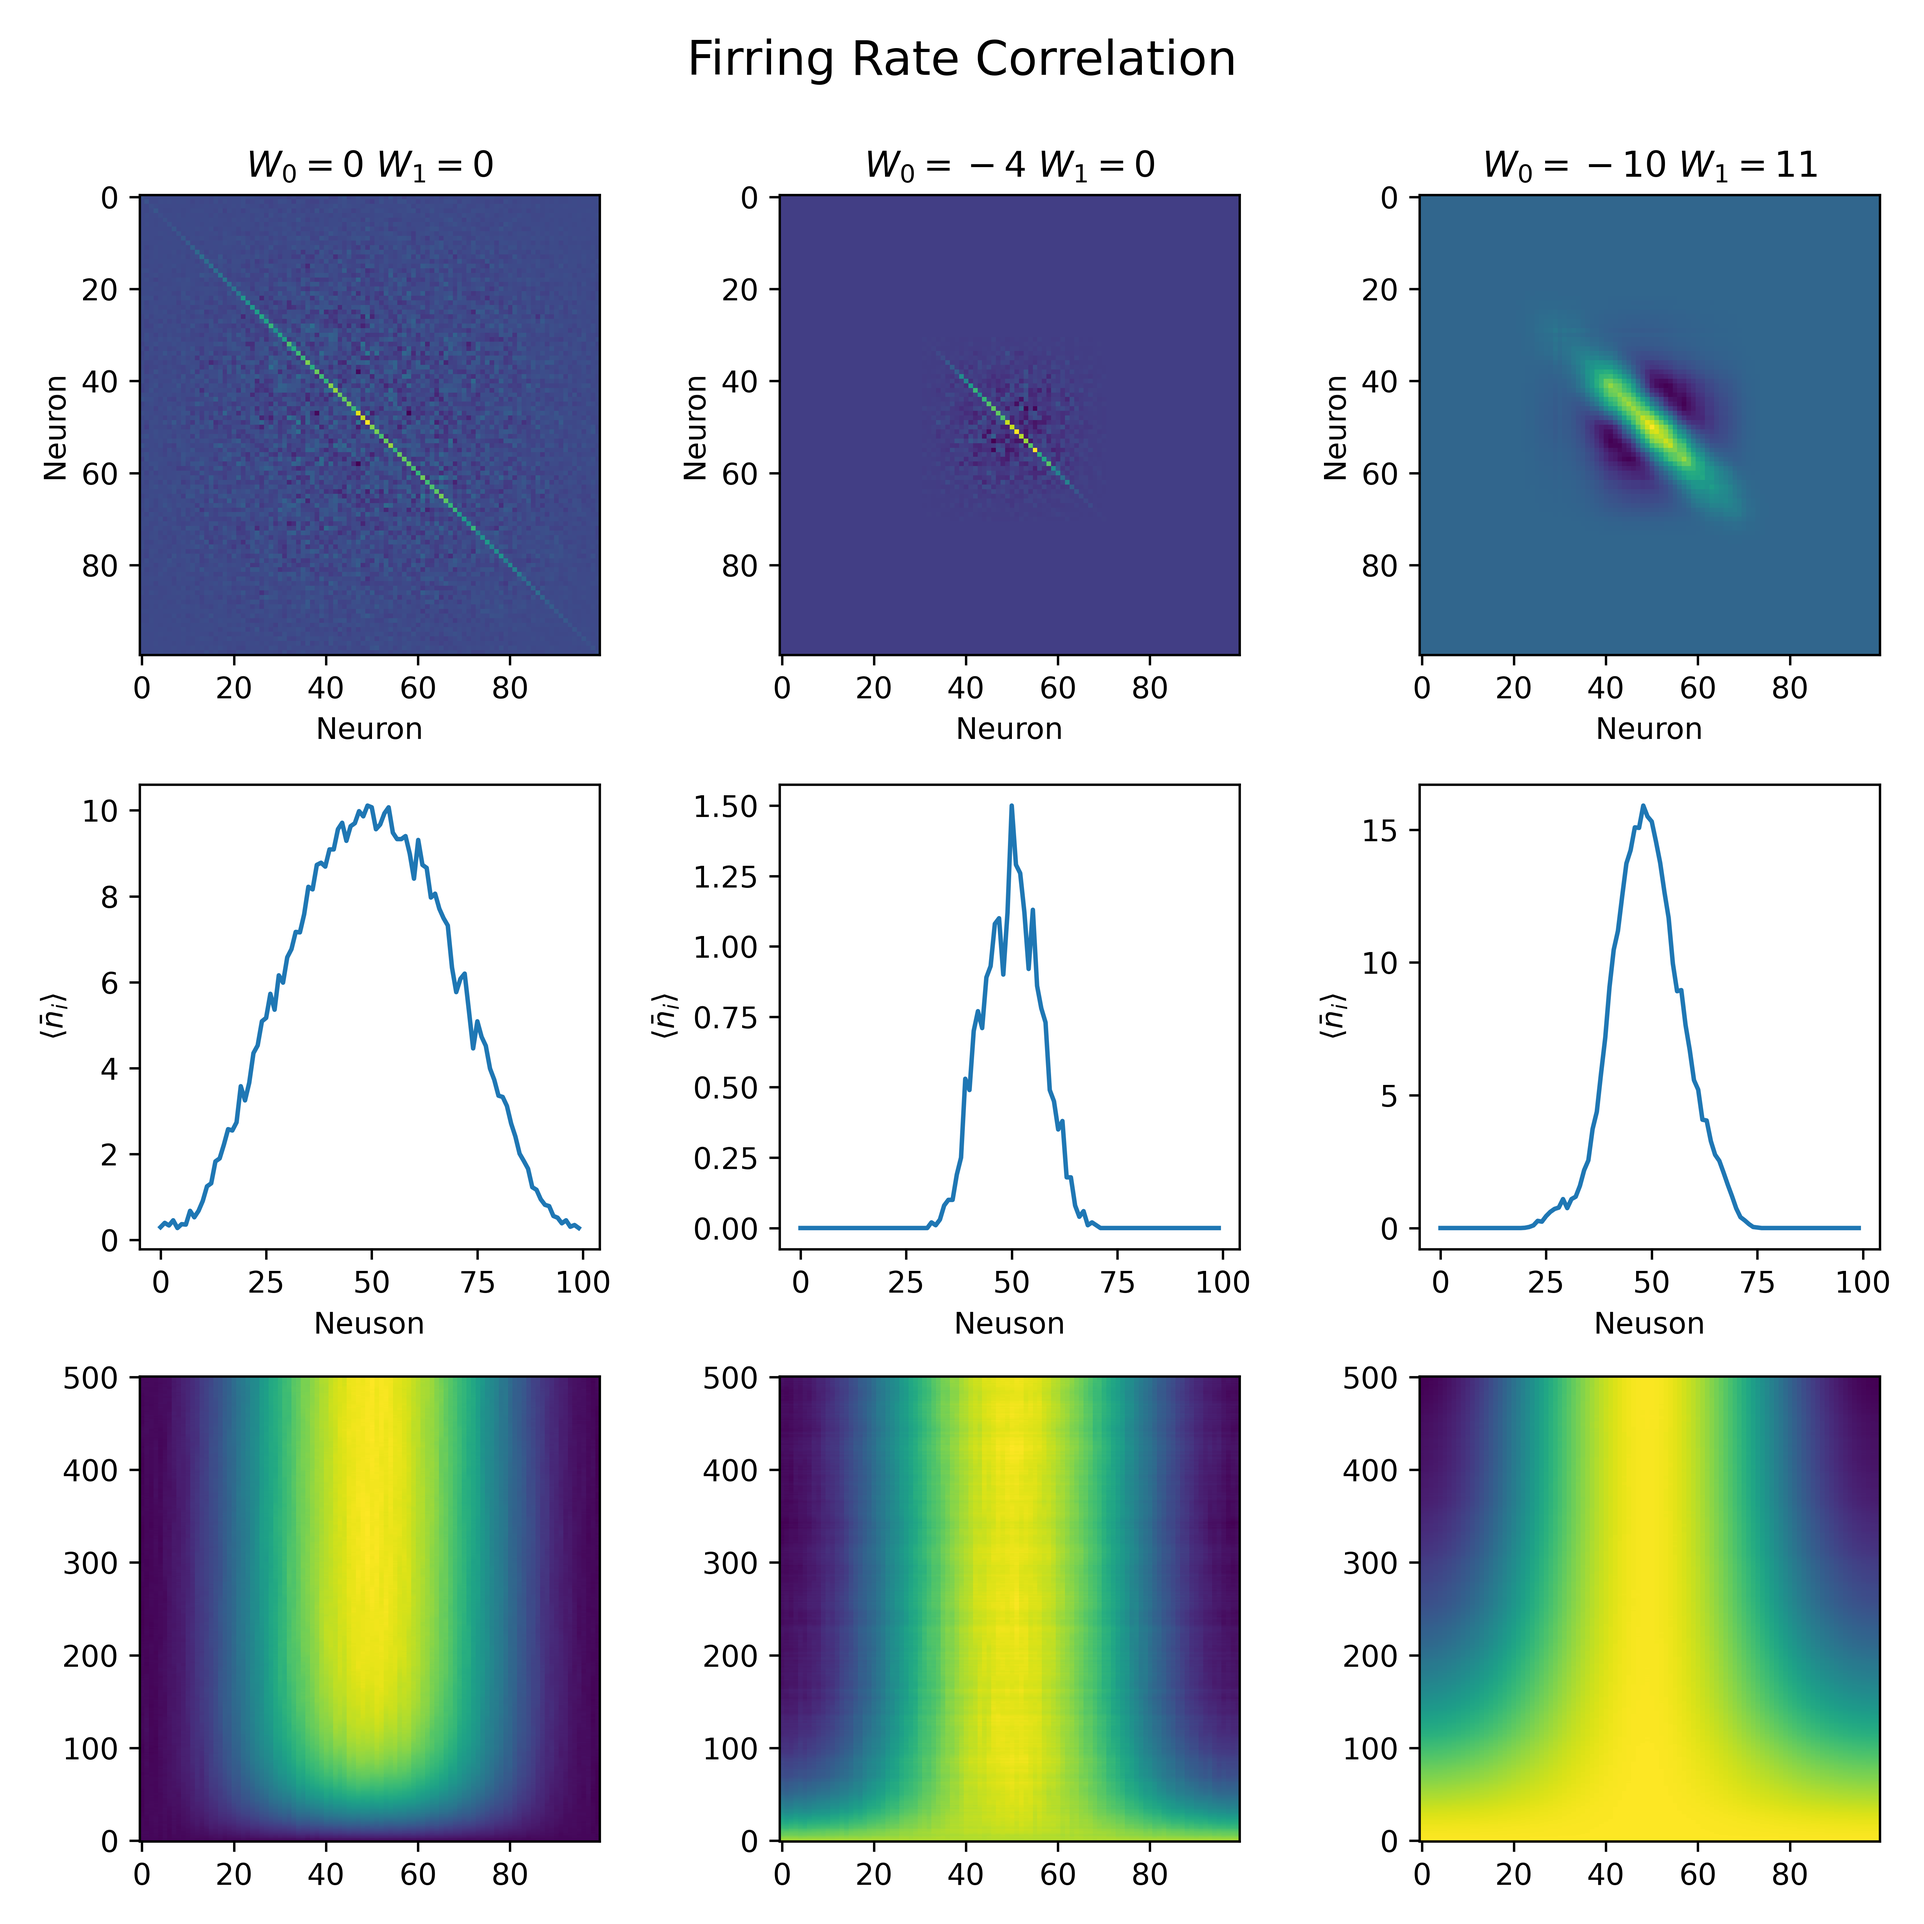
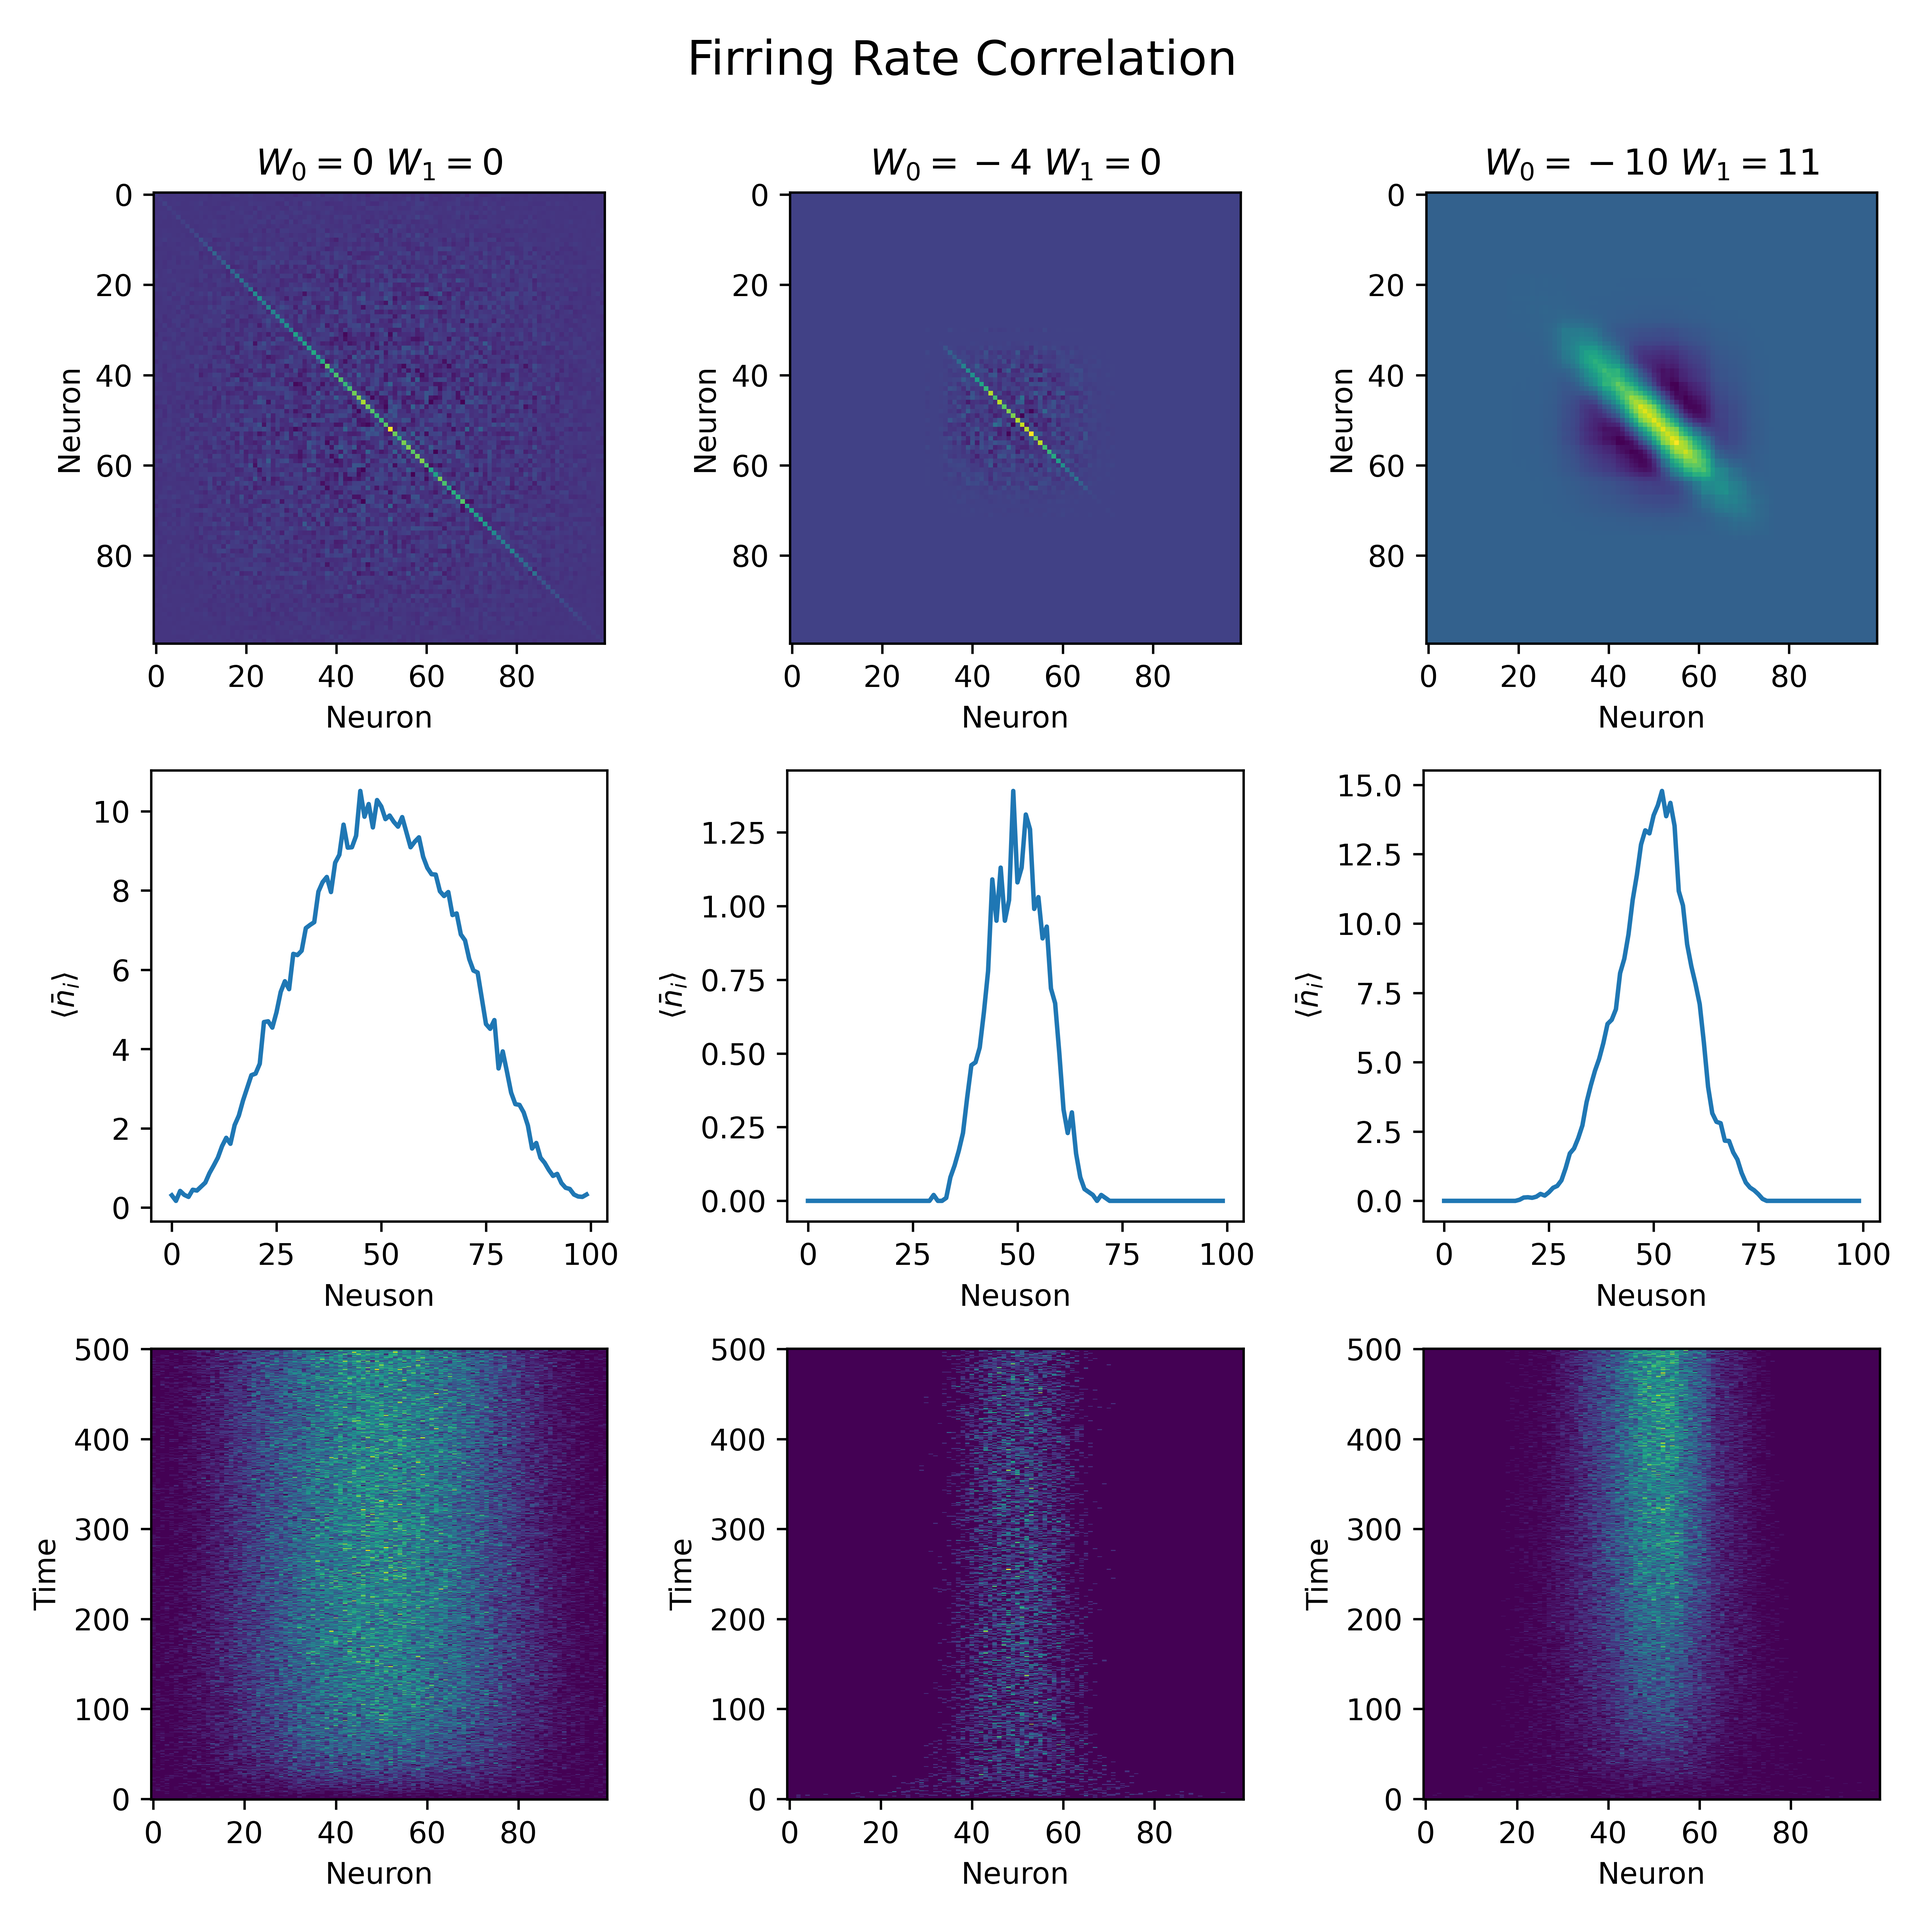
Added decoders

diff --git a/q3_noise_corr.py b/q3_noise_corr.py
@@ -24,10 +24,9 @@ def simulate(W0, W1, ax):
     rn = RingNetwork(100, W0, W1)
     res = np.array([rn.simulate(seed=random.randint(0,65536)) for _ in trange(n_runs)])
 
-    Vs = res[:,0,:,:]
     Ns = res[:,1,:,:]
 
-    Va = np.mean(Vs, axis=0)
+    Na = np.mean(Ns, axis=0)
 
     Nbs = np.sum(Ns[:,-t:,:], axis=1)
     Nba = np.mean(Nbs, axis=0)
@@ -46,10 +45,12 @@ def simulate(W0, W1, ax):
     ax[1].set_ylabel("$\\langle\\bar n_i\\rangle$")
 
     ax[2].imshow(
-        Va, 
+        Na, 
         interpolation='nearest', 
         aspect='auto', 
         origin='lower')
+    ax[2].set_xlabel("Neuron")
+    ax[2].set_ylabel("Time (ms)")
 
 simulate(0, 0, ax1)
 simulate(-4, 0, ax2)

diff --git a/tests/test_decoder.py b/tests/test_decoder.py
@@ -1,0 +1,23 @@
+from decoders import *
+
+def test_get_cumulative_counts():
+    N = np.ones(10)
+    assert np.all(get_cumulative_counts(N[:,None]) == np.arange(1, 11, 1))
+
+def test_winner_take_all_decode():
+    N = np.eye(10)
+    s1 = np.arange(0, 10, 1)
+
+    print(N.shape)
+    print(s1.shape)
+
+    assert np.all(winner_take_all_decode(N, s1) == s1)
+
+def test_population_vector_decode():
+    N1 = np.eye(10)
+    s1 = np.linspace(-np.pi, np.pi, 11)[:-1]
+
+    N2 = np.cos(s1[:,None] - s1[None,:])
+
+    assert np.all(winner_take_all_decode(N1, s1) == s1)
+    assert np.all(winner_take_all_decode(N2, s1) == s1)

diff --git a/decoders.py b/decoders.py
@@ -1,0 +1,17 @@
+import numpy as np
+
+from ringNetwork import RingNetwork
+
+def get_cumulative_counts(N):
+    return np.array([np.sum(N[:i+1,:]) for i in range(N.shape[0])])
+
+def winner_take_all_decode(N, s):
+    return np.array([s[np.argmax(N[i,:])] for i in range(N.shape[0])])
+
+def population_vector_decode(N, s):
+    def population_deode_single(Ns):
+        angles = np.exp(1j * s)
+        v = np.sum([angles[i] * Ns[i] for i in len(N)])
+        return np.imag(np.log(v))
+
+    return np.array([population_deode_single(N[i,:]) for i in range(N.shape[0])])
